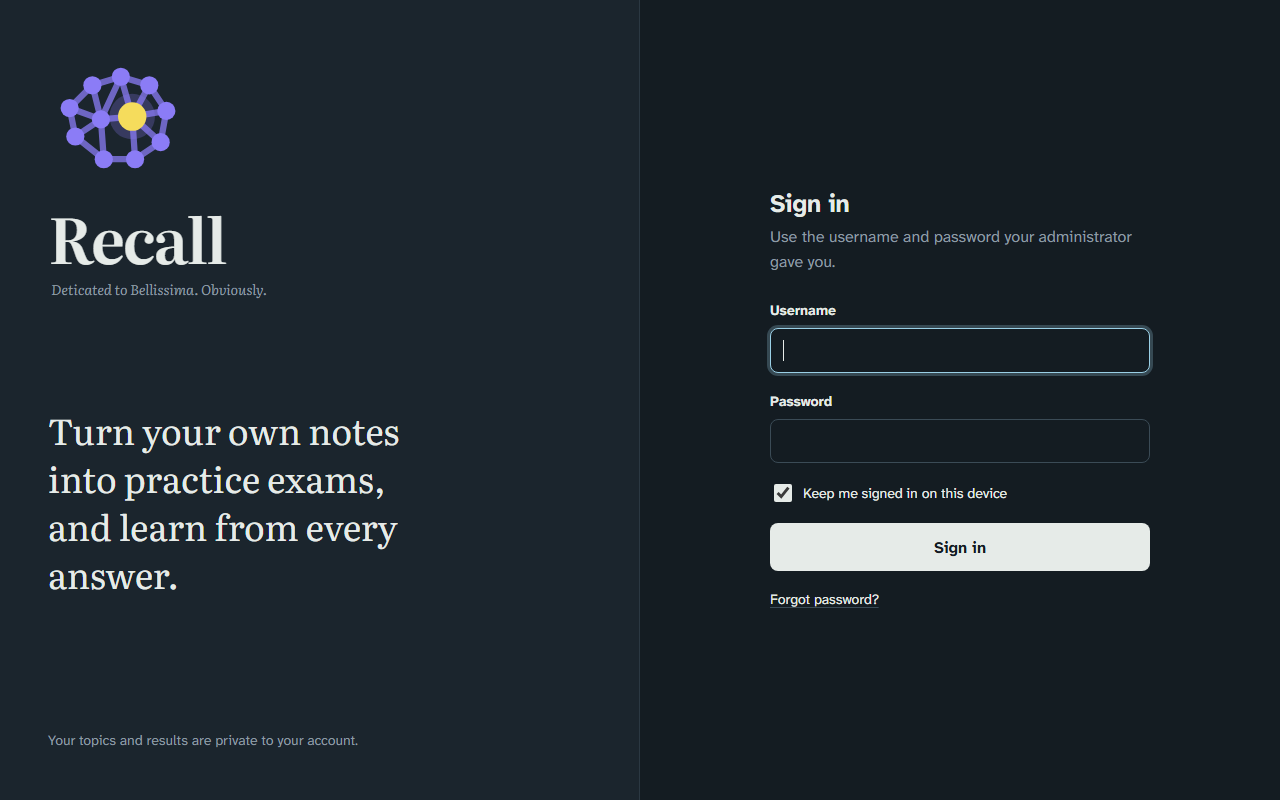
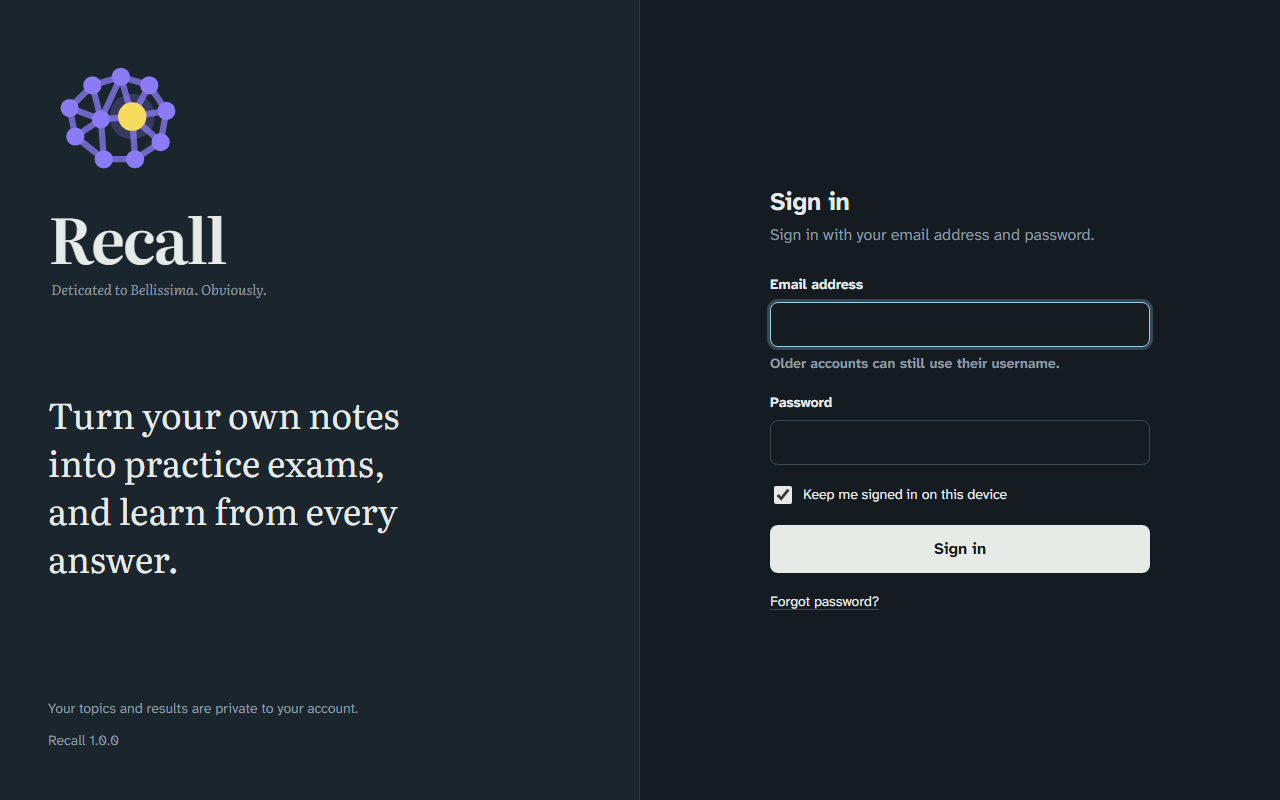
Open the README with the sign-in page and a short pitch
The README started with a dry one-line description and a screenshot of
the app mid-exam. It now leads with the 1.0.0 sign-in screenshot, a
short pitch for what Recall is for and why (explanations, code questions,
self-hosted, cost shown up front), and friendlier section openings. The
code-question screenshot moved into the Exams section where it belongs.

"Publishing a new image" is gone: it's maintainer procedure, not
something people running Recall need.

diff --git a/README.md b/README.md
@@ -1,16 +1,25 @@
 # Recall
 
-A self-hosted web app that turns your own study material into practice exams with AI, and
-explains every answer so you learn from it.
+![Recall](docs/images/recall-signin.png)
 
-Upload your notes, slides or scripts into a topic, and Recall writes multiple-choice and written
-questions about them, grades your written answers, and tracks how you improve over time.
+**Recall turns your own notes, slides and scripts into practice exams, and explains every answer
+so you actually learn from it.**
 
-![Answering a code question](docs/images/recall-take-exam.jpg)
+Bring a lecture PDF, a slide deck or a page of notes. Recall writes questions in your topic's
+language, grades your written answers with specific feedback, and shows where you're improving
+and what still trips you up. It runs on your own server, with your own AI key, so your material
+stays yours.
+
+- **Learn, don't just score.** Every answer comes with a thorough explanation and a link to the
+  part of your material it came from
+- **Built for technical subjects too.** Programming topics mix real code questions with theory
+- **Private by design.** Self-hosted, one account per person, nothing shared
+- **No surprise bills.** You see the expected cost before the AI writes anything
 
 ## Topics and material
 
-A topic holds any amount of study material:
+Everything starts with a topic: a course, a subject, an exam you're preparing for. It holds any
+amount of study material:
 
 - Upload **PDF, Word (.docx), PowerPoint (.pptx), LaTeX or Markdown** files, or paste text in
   directly. PowerPoint slides come in one section per slide, speaker notes included
@@ -28,8 +37,8 @@ A topic holds any amount of study material:
 
 ## Exams
 
-Create any number of exams per topic: pick a name, a question count, the type (multiple choice,
-written, or a mix) and the difficulty (easy, medium or hard). Optionally, give the AI
+Turn a topic into as many exams as you like: pick a name, a question count, the type (multiple
+choice, written, or a mix) and the difficulty (easy, medium or hard). Optionally, give the AI
 instructions such as "focus on dates and names". Exams in a programming topic also set how many
 questions work with code (40% by default); the rest are theory.
 
@@ -46,6 +55,8 @@ questions work with code (40% by default); the rest are theory.
 
 ![Creating an exam](docs/images/recall-new-exam.jpg)
 
+![Answering a code question](docs/images/recall-take-exam.jpg)
+
 Code shows up as code, with syntax colouring, in questions, options, answers and explanations.
 After each question, or at the end, you see what was right, what you picked, and why:
 
@@ -57,13 +68,15 @@ After each question, or at the end, you see what was right, what you picked, and
 
 ## Question bank
 
-Every generated question is kept in the topic's bank and can be reused by later exams, which
-costs nothing. Each exam chooses how much to reuse (20% by default), so practice stays mostly
-fresh. Reused questions match the exam's type, difficulty and code/theory mix. New questions are
-checked against the bank, and repeats are dropped. When a topic's bank gets close to what its
-material can support, Recall tells you.
+Nothing gets thrown away. Every generated question is kept in the topic's bank and can be reused
+by later exams, which costs nothing. Each exam chooses how much to reuse (20% by default), so
+practice stays mostly fresh. Reused questions match the exam's type, difficulty and code/theory
+mix. New questions are checked against the bank, and repeats are dropped. When a topic's bank
+gets close to what its material can support, Recall tells you.
 
 ## Statistics
+
+See what's sticking and what isn't:
 
 - Score over time for each exam
 - An overview per topic: average score, attempt count, last practised
@@ -107,8 +120,6 @@ Without email, the admin gets the same links on the Users page to pass on by han
 
 After an update, everyone sees a short "What's new" banner linking to the release notes, until
 they close it.
-
-![Sign in](docs/images/recall-signin.png)
 
 ## With Docker
 
@@ -169,24 +180,6 @@ docker run -d --name recall -p 8080:8080 -v recall-data:/data recall
 ```
 
 The repository's own `docker-compose.yml` does the same with `docker compose up -d --build`.
-
-## Publishing a new image
-
-First update `CHANGELOG.md`. The app shows that file on its release notes page (linked from the
-version number), and the GitHub release uses the same text. A `## Current version` heading is shown
-as the running version and the day its image was built, for example `1.0.0 - 2026-09-25`.
-
-Pushing a version tag builds the image on GitHub and publishes it as
-`ghcr.io/geeforceone/recall` (`latest`, plus the version), with that version number shown in the
-app:
-
-```
-git tag v1.0.0
-git push origin v1.0.0
-```
-
-It can also be started by hand under **Actions → Publish Docker image**. Ordinary pushes to `main`
-don't publish.
 
 ## Development
 
